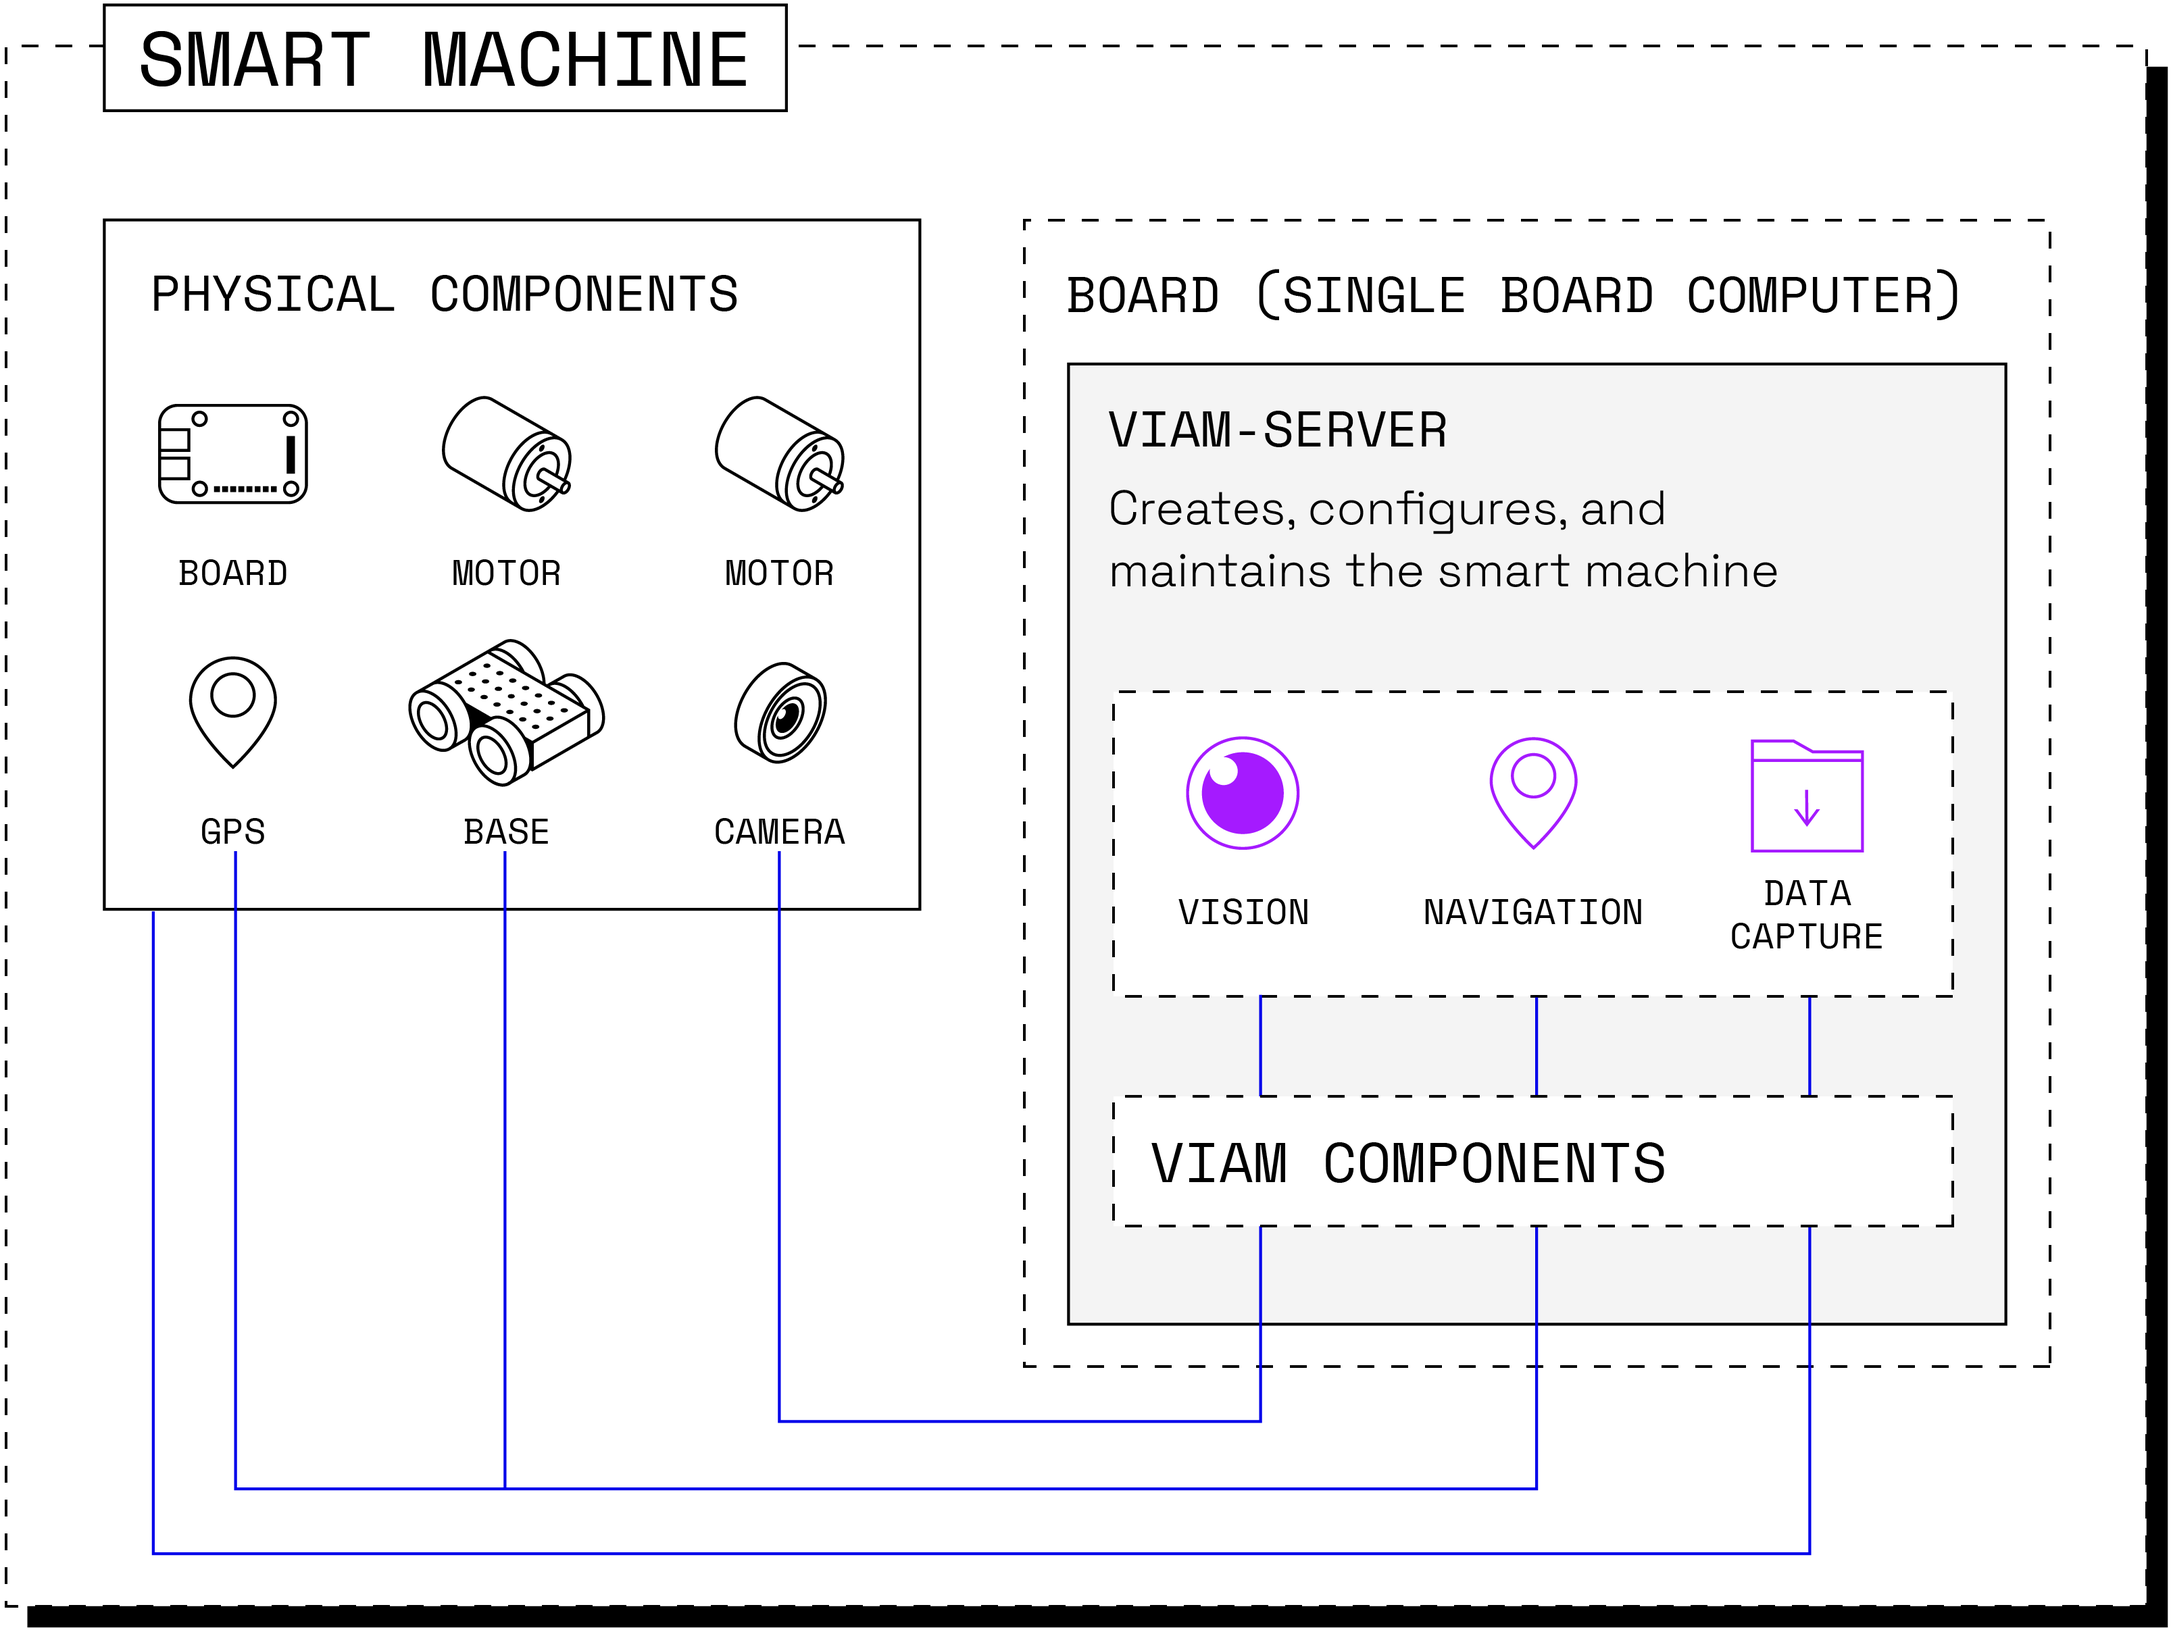
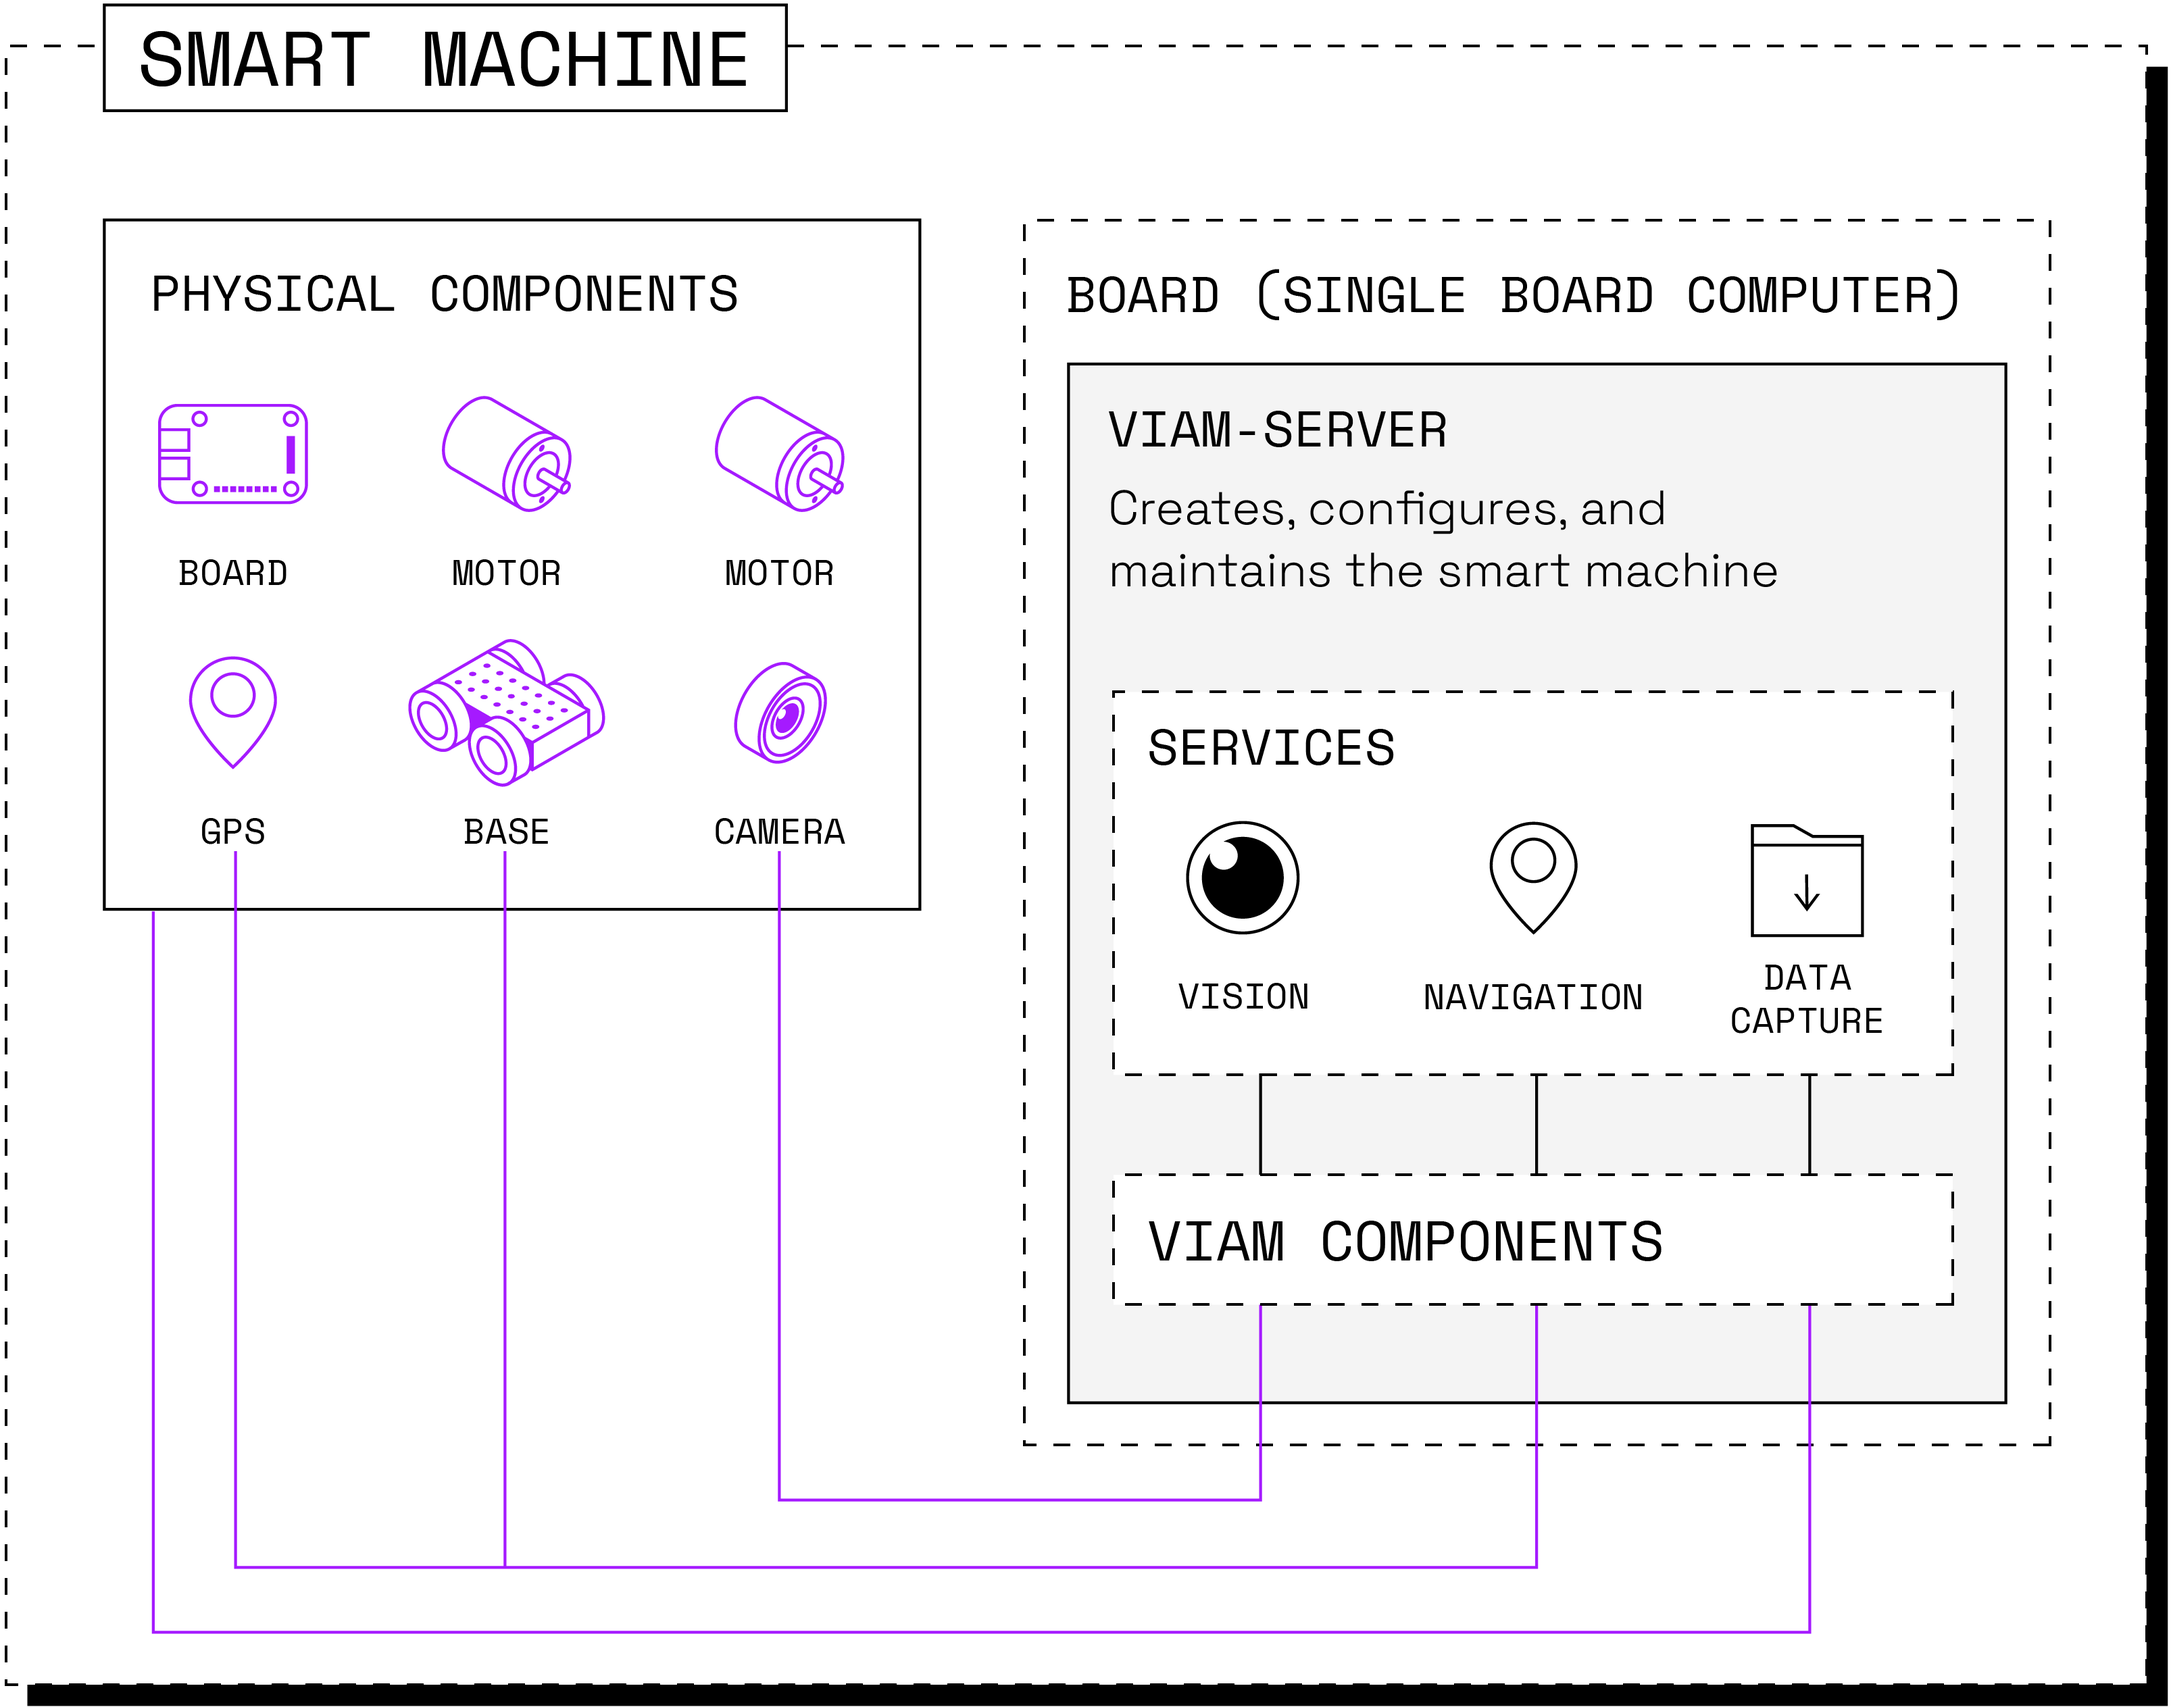
DOCS-1447: Update component and service diagrams (#2675)

diff --git a/docs/components/_index.md b/docs/components/_index.md
@@ -12,7 +12,7 @@ aliases:
 Viam provides support for a wide variety of hardware.
 A _component_ represents a physical piece of hardware in your {{< glossary_tooltip term_id="machine" text="machine" >}}, and the software that directly supports that hardware.
 
-{{< imgproc src="/viam/machine-components.png" alt="Diagram with various components and services on a smart machine. This machine employs the vision, navigation, and data capture services, which run within viam-server on the machine's single board computer." resize="1000x" style="max-width:650px" class="aligncenter" >}}
+{{< imgproc src="/viam/machine-components.png" alt="Diagram with various components and services on a smart machine. This machine employs the vision, navigation, and data capture services, which run within viam-server on the machine's single board computer." resize="650x" class="aligncenter" >}}
 <br>
 
 Viam groups categories of hardware together, with a [standardized API](/build/program/apis/#component-apis) for all _{{< glossary_tooltip term_id="model" text="models" >}}_ in each grouping.

diff --git a/docs/services.md b/docs/services.md
@@ -16,7 +16,7 @@ Some of that software is the low-level code that communicates directly with the 
 In this case, the vision service is configured to run computer vision models on output from the camera component.
 The navigation service can take the raw output from the GPS component output and determine geographical location, and the data service captures data from any or all of the components, for example storing images from the camera.
 
-{{< imgproc src="/viam/machine-components.png" alt="Machine components" resize="1000x" style="max-width:650px" class="aligncenter" >}}
+{{< imgproc src="/viam/machine-services.png" alt="Machine components" resize="650x" class="aligncenter" >}}
 <br>
 
 Many built-in services run locally within `viam-server`, but you can think of them as discrete building blocks that you can mix and match however you want; you can run your machine using none, some, or all of them, depending on your use case.
